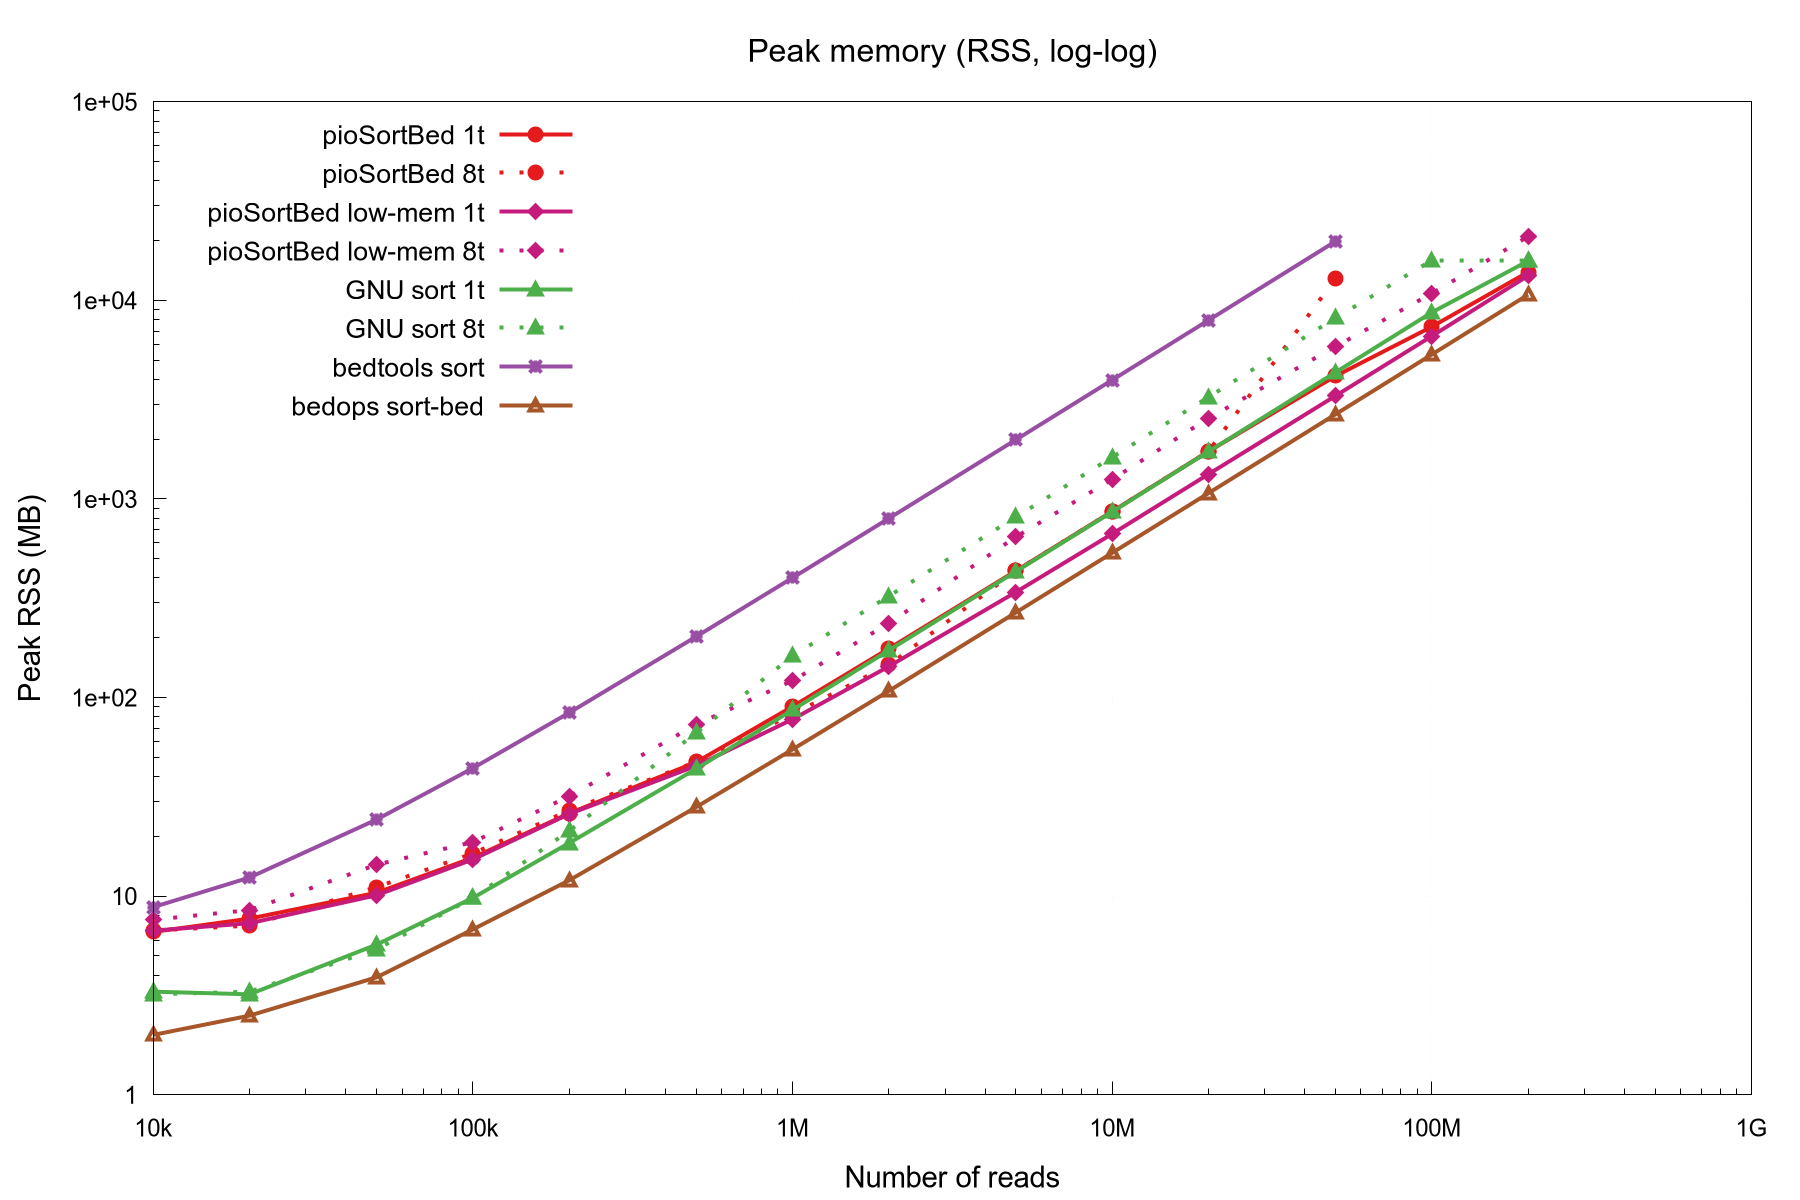
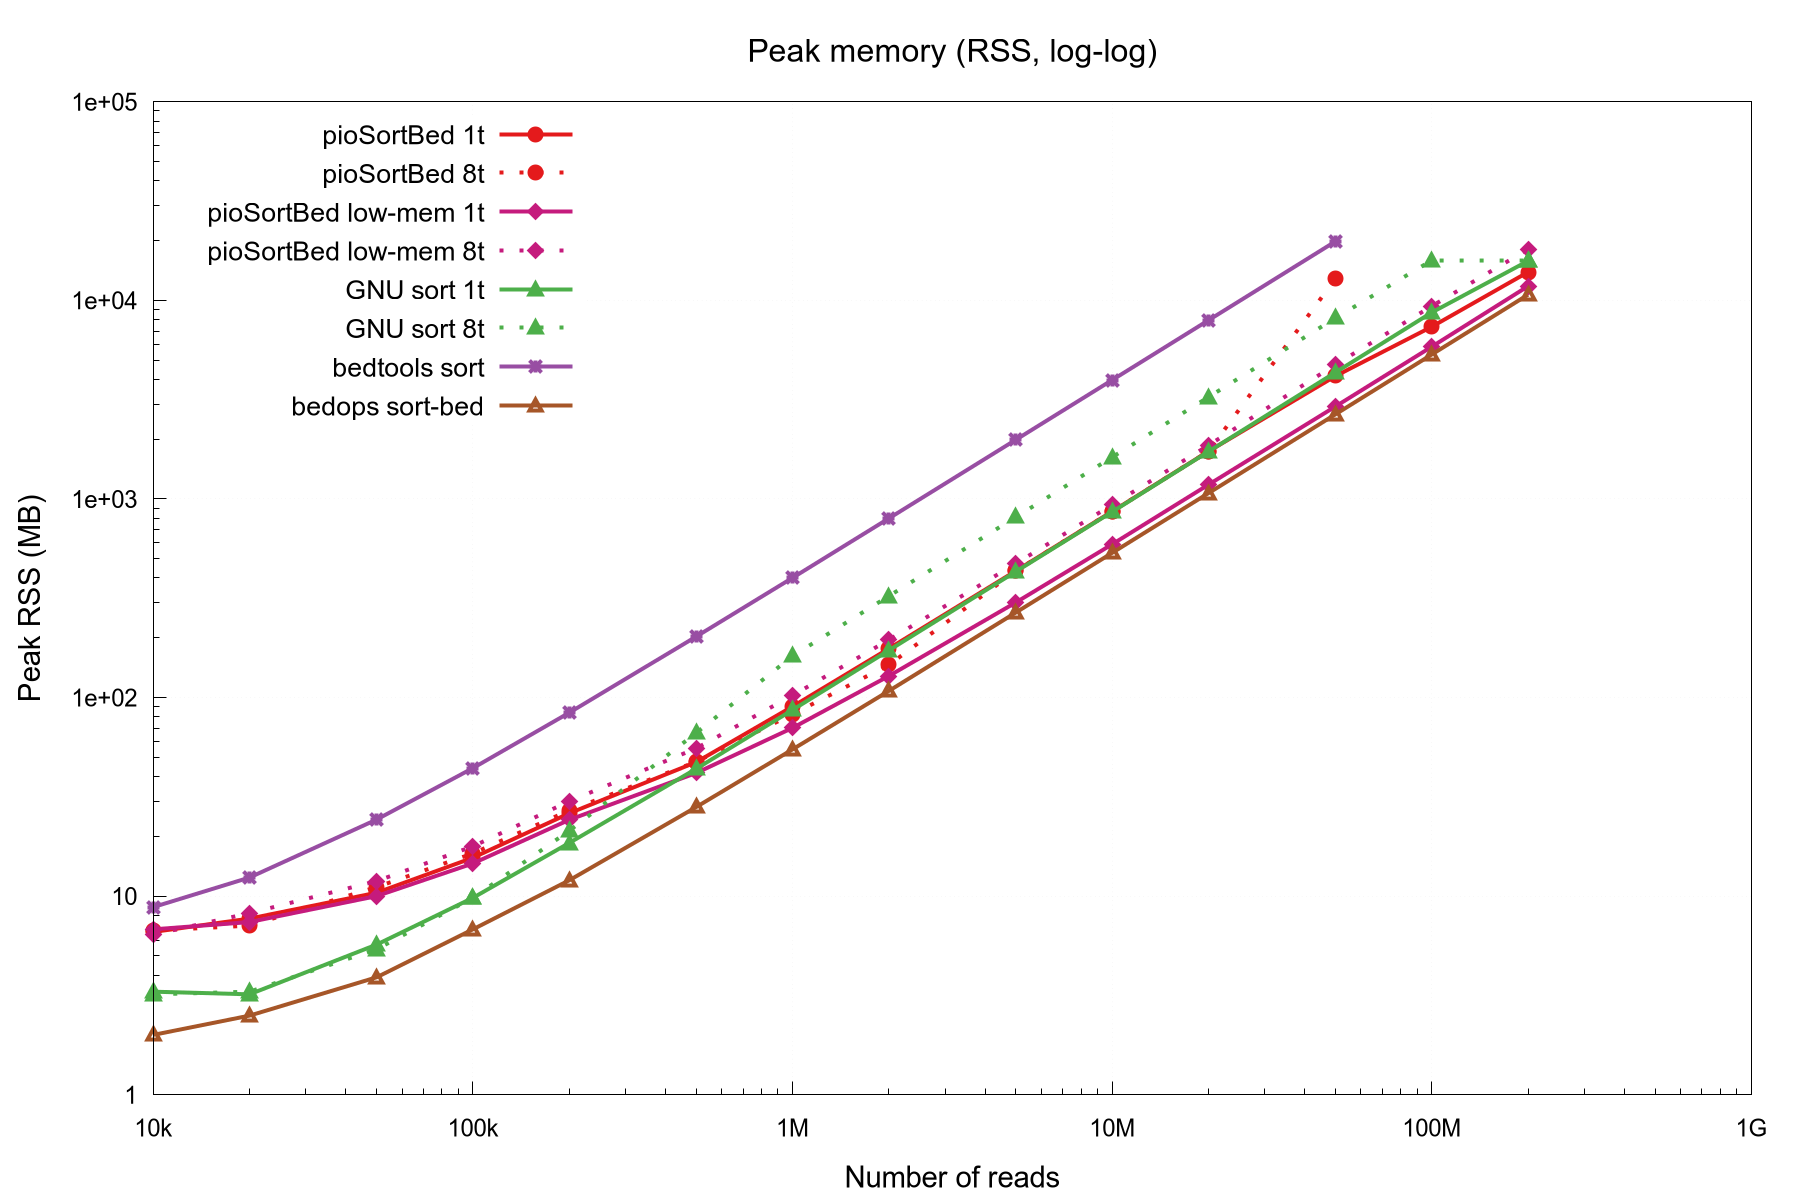
bench: refresh README/CSV/plots with v3.0.2 pio-lm numbers
Re-ran the synthetic sweep on v3.0.2 for --low-mem-ssd at -t 1 and -t 8
only (other tools unchanged from prior measurements). Headline gains
since v3.0.0 from the lowMemNode shrink (24 -> 16 B) and the chunked
emit:

  pio-lm -t 8 @ 50M:  5.88 s / 5.86 GB -> 4.30 s / 4.64 GB  (-27% / -21%)
  pio-lm -t 8 @ 100M: 10.16 s / 10.84 GB -> 7.64 s / 9.14 GB  (-25% / -16%)
  pio-lm -t 8 @ 200M: 35.16 s / 20.98 GB -> 23.56 s / 17.66 GB (-33% / -16%)
  pio-lm -t 1 @ 200M: 68.99 s / 13.32 GB -> 55.30 s / 11.51 GB (-20% / -14%)

vs other tools at 200M, pio-lm -t 8 is now 4.5x faster than GNU sort 8t
(was 3.0x), 6.6x faster than bedops (was 4.4x), 13.9x faster than GNU
sort 1t (was 9.3x).

The "fastest configuration at every size from X upwards" threshold
moves from 1M (v3.0.0) down to 500k (v3.0.2). The "low-mem 1t beats
classic 1t" crossover moves from 50M down to 5M.

Snapshotted v3.0.2_20e32fa1 to benchmark/history/.

diff --git a/README.md b/README.md
@@ -123,19 +123,19 @@ Same colour per tool; thread count distinguished by line style (`-t 1` solid, `-
 | Reads | pio 1t ● | pio 8t ● | pio low-mem 1t ◆ | pio low-mem 8t ◆ | sort 1t ▲  | sort 8t ▲  | bedtools ✚ | bedops ✦   |
 |------:|---------:|---------:|-----------------:|-----------------:|-----------:|-----------:|-----------:|-----------:|
 | 10k   | 0 ms     | 0 ms      | 0 ms             | 0 ms             | 10 ms      | 0 ms       | 10 ms      | 0 ms       |
-| 20k   | 0 ms     | 0 ms      | 10 ms            | 10 ms            | 10 ms      | 10 ms      | 20 ms      | 10 ms      |
-| 50k   | 10 ms    | 10 ms     | 20 ms            | 10 ms            | 30 ms      | 30 ms      | 40 ms      | 30 ms      |
-| 100k  | 10 ms    | 10 ms     | 30 ms            | 20 ms            | 70 ms      | 70 ms      | 90 ms      | 50 ms      |
+| 20k   | 0 ms     | 0 ms      | 10 ms            | 0 ms             | 10 ms      | 10 ms      | 20 ms      | 10 ms      |
+| 50k   | 10 ms    | 10 ms     | 10 ms            | 10 ms            | 30 ms      | 30 ms      | 40 ms      | 30 ms      |
+| 100k  | 10 ms    | 10 ms     | 40 ms            | 20 ms            | 70 ms      | 70 ms      | 90 ms      | 50 ms      |
 | 200k  | 30 ms    | 20 ms     | 60 ms            | 30 ms            | 150 ms     | 90 ms      | 170 ms     | 110 ms     |
-| 500k  | 100 ms   | 70 ms     | 110 ms           | 70 ms            | 410 ms     | 160 ms     | 450 ms     | 290 ms     |
-| 1M    | 210 ms   | 170 ms    | 230 ms           | **150 ms**       | 880 ms     | 320 ms     | 920 ms     | 590 ms     |
-| 2M    | 440 ms   | 350 ms    | 550 ms           | **280 ms**       | 1870 ms    | 630 ms     | 1930 ms    | 1360 ms    |
-| 5M    | 1120 ms  | 880 ms    | 1670 ms          | **660 ms**       | 5170 ms    | 1670 ms    | 4680 ms    | 3310 ms    |
-| 10M   | 2250 ms  | 1780 ms   | 3190 ms          | **1330 ms**      | 11.29 s    | 3450 ms    | 9610 ms    | 6540 ms    |
-| 20M   | 4620 ms  | 3640 ms   | 6390 ms          | **2500 ms**      | 24.48 s    | 7120 ms    | 19.93 s    | 14.26 s    |
-| 50M   | 19.74 s  | 6150 ms   | 16.34 s          | **5880 ms**      | 1min07.2s  | 19.85 s    | 53.10 s    | 34.42 s    |
-| 100M  | 35.66 s  | —         | 32.25 s          | **10.16 s**      | 2min24.0s  | 51.21 s    | —          | 1min07.7s  |
-| 200M  | 1min08.4s | —        | 1min09.0s        | **35.16 s**      | 5min28.5s  | 1min45.5s  | —          | 2min34.6s  |
+| 500k  | 100 ms   | 70 ms     | 150 ms           | **60 ms**        | 410 ms     | 160 ms     | 450 ms     | 290 ms     |
+| 1M    | 210 ms   | 170 ms    | 210 ms           | **150 ms**       | 880 ms     | 320 ms     | 920 ms     | 590 ms     |
+| 2M    | 440 ms   | 350 ms    | 410 ms           | **230 ms**       | 1870 ms    | 630 ms     | 1930 ms    | 1360 ms    |
+| 5M    | 1120 ms  | 880 ms    | 1520 ms          | **490 ms**       | 5170 ms    | 1670 ms    | 4680 ms    | 3310 ms    |
+| 10M   | 2250 ms  | 1780 ms   | 2480 ms          | **1060 ms**      | 11.29 s    | 3450 ms    | 9610 ms    | 6540 ms    |
+| 20M   | 4620 ms  | 3640 ms   | 5170 ms          | **1940 ms**      | 24.48 s    | 7120 ms    | 19.93 s    | 14.26 s    |
+| 50M   | 19.74 s  | 6150 ms   | 13.40 s          | **4.30 s**       | 1min07.2s  | 19.85 s    | 53.10 s    | 34.42 s    |
+| 100M  | 35.66 s  | —         | 25.67 s          | **7.64 s**       | 2min24.0s  | 51.21 s    | —          | 1min07.7s  |
+| 200M  | 1min08.4s | —        | 55.30 s          | **23.56 s**      | 5min28.5s  | 1min45.5s  | —          | 2min34.6s  |
 
 > Sub-50 ms timings (10k–50k) bottom out at GNU `time`'s 10 ms resolution; raw 0 ms readings just mean the tool finished faster than the timer can resolve.
 >
@@ -143,15 +143,14 @@ Same colour per tool; thread count distinguished by line style (`-t 1` solid, `-
 
 **Key observations:**
 - **`pioSortBed --low-mem-ssd -t 8` is the fastest configuration at every size from
-  1M upwards.** Despite the name, "low-mem" is now also "fast": both passes
-  are parallelised, and the per-line index uses a flat 24-byte node table
-  instead of a chromosome-length scratch slab. At 200M reads (8.6 GB BED file),
-  it's **35.2 s — 3.0× faster than GNU sort 8t, 4.4× over bedops, 9.3× over
-  GNU sort 1t**.
-- **`pioSortBed --low-mem-ssd -t 1` beats `pioSortBed -t 1` from 50M upwards**
-  (50M: 16.3 s vs 19.7 s) and uses ~20% less memory (3.3 GB vs 4.1 GB). At
-  smaller sizes the two-pass overhead makes the regular path faster, but the
-  low-mem path scales better.
+  500k upwards.** Both passes are parallelised; the per-line index is a 16-byte
+  flat node table; pass-2 output is written through a pre-sized chunked buffer
+  with no realloc churn. At 200M reads (8.6 GB BED file), it's **23.6 s —
+  4.5× faster than GNU sort 8t, 6.6× over bedops, 13.9× over GNU sort 1t**.
+- **`pioSortBed --low-mem-ssd -t 1` beats `pioSortBed -t 1` from 5M upwards**
+  (50M: 13.4 s vs 19.7 s — 1.5× faster) and uses ~30% less memory (50M: 2.9 GB
+  vs 4.1 GB). At small sizes the two-pass overhead makes the regular path
+  marginally faster, but the low-mem path scales much better.
 - **`pioSortBed 1t`** (with the LSD radix sort) beats GNU sort 1t by 3–5× across
   the whole range and stays competitive with GNU sort 8t up through 2M.
 - **`bedops sort-bed`** remains the closest single-threaded competitor and uses
@@ -168,40 +167,41 @@ Same colour per tool; thread count distinguished by line style (`-t 1` solid, `-
 
 | Reads | pio 1t ●  | pio 8t ●    | pio low-mem 1t ◆ | pio low-mem 8t ◆ | sort 1t ▲ | sort 8t ▲ | bedtools ✚ | bedops ✦   |
 |------:|----------:|------------:|-----------------:|-----------------:|----------:|----------:|-----------:|-----------:|
-| 10k   | 6.6 MB    | 6.7 MB      | 6.7 MB           | 7.6 MB           | 3.3 MB    | 3.2 MB    | 8.8 MB     | 2.0 MB     |
-| 20k   | 7.7 MB    | 7.1 MB      | 7.3 MB           | 8.5 MB           | 3.2 MB    | 3.3 MB    | 12.4 MB    | 2.5 MB     |
-| 50k   | 10.4 MB   | 11.1 MB     | 10.1 MB          | 14.4 MB          | 5.7 MB    | 5.4 MB    | 24.3 MB    | 3.9 MB     |
-| 100k  | 15.6 MB   | 16.4 MB     | 15.3 MB          | 18.7 MB          | 9.8 MB    | 9.8 MB    | 44.1 MB    | 6.8 MB     |
-| 200k  | 26.1 MB   | 27.0 MB     | 25.9 MB          | 31.8 MB          | 18.5 MB   | 21.3 MB   | 83.8 MB    | 12.0 MB    |
-| 500k  | 47.3 MB   | 47.5 MB     | 45.3 MB          | 73.2 MB          | 43.8 MB   | 66.4 MB   | 202.9 MB   | 28.1 MB    |
-| 1M    | 90.1 MB   | 82.4 MB     | 77.7 MB          | 121.5 MB         | 86.6 MB   | 161.9 MB  | 400.8 MB   | 54.8 MB    |
-| 2M    | 176.3 MB  | 145.8 MB    | 143.4 MB         | 236.3 MB         | 172.7 MB  | 324.1 MB  | 797.8 MB   | 107.9 MB   |
-| 5M    | 434.6 MB  | 434.4 MB    | 339.7 MB         | 644.5 MB         | 431.2 MB  | 811.3 MB  | 1.9 GB     | 268.2 MB   |
-| 10M   | 865.1 MB  | 865.1 MB    | 667.3 MB         | 1.2 GB           | 861.4 MB  | 1.6 GB    | 3.9 GB     | 535.3 MB   |
-| 20M   | 1.7 GB    | 1.7 GB      | 1.3 GB           | 2.5 GB           | 1.7 GB    | 3.2 GB    | 7.8 GB     | 1.0 GB     |
-| 50M   | 4.1 GB    | **12.6 GB** | **3.2 GB**       | 5.7 GB           | 4.2 GB    | 8.0 GB    | 19.4 GB    | 2.6 GB     |
-| 100M  | 7.2 GB    | —           | **6.5 GB**       | 10.6 GB          | 8.5 GB    | 15.4 GB   | —          | 5.2 GB     |
-| 200M  | 13.6 GB   | —           | **13.0 GB**      | 20.5 GB          | 15.4 GB   | 15.4 GB   | —          | 10.4 GB    |
+| 10k   | 6.6 MB    | 6.7 MB      | 6.8 MB           | 6.4 MB           | 3.3 MB    | 3.2 MB    | 8.8 MB     | 2.0 MB     |
+| 20k   | 7.7 MB    | 7.1 MB      | 7.4 MB           | 8.2 MB           | 3.2 MB    | 3.3 MB    | 12.4 MB    | 2.5 MB     |
+| 50k   | 10.4 MB   | 11.1 MB     | 10.0 MB          | 11.9 MB          | 5.7 MB    | 5.4 MB    | 24.3 MB    | 3.9 MB     |
+| 100k  | 15.6 MB   | 16.4 MB     | 14.6 MB          | 17.8 MB          | 9.8 MB    | 9.8 MB    | 44.1 MB    | 6.8 MB     |
+| 200k  | 26.1 MB   | 27.0 MB     | 24.2 MB          | 30.0 MB          | 18.5 MB   | 21.3 MB   | 83.8 MB    | 12.0 MB    |
+| 500k  | 47.3 MB   | 47.5 MB     | 41.7 MB          | 55.5 MB          | 43.8 MB   | 66.4 MB   | 202.9 MB   | 28.1 MB    |
+| 1M    | 90.1 MB   | 82.4 MB     | 70.3 MB          | 102.4 MB         | 86.6 MB   | 161.9 MB  | 400.8 MB   | 54.8 MB    |
+| 2M    | 176.3 MB  | 145.8 MB    | 128.3 MB         | 195.0 MB         | 172.7 MB  | 324.1 MB  | 797.8 MB   | 107.9 MB   |
+| 5M    | 434.6 MB  | 434.4 MB    | 301.4 MB         | 473.2 MB         | 431.2 MB  | 811.3 MB  | 1.9 GB     | 268.2 MB   |
+| 10M   | 865.1 MB  | 865.1 MB    | 591.3 MB         | 934.7 MB         | 861.4 MB  | 1.6 GB    | 3.9 GB     | 535.3 MB   |
+| 20M   | 1.7 GB    | 1.7 GB      | 1.2 GB           | 1.8 GB           | 1.7 GB    | 3.2 GB    | 7.8 GB     | 1.0 GB     |
+| 50M   | 4.1 GB    | **12.6 GB** | **2.9 GB**       | 4.6 GB           | 4.2 GB    | 8.0 GB    | 19.4 GB    | 2.6 GB     |
+| 100M  | 7.2 GB    | —           | **5.7 GB**       | 9.1 GB           | 8.5 GB    | 15.4 GB   | —          | 5.2 GB     |
+| 200M  | 13.6 GB   | —           | **11.5 GB**      | 17.7 GB          | 15.4 GB   | 15.4 GB   | —          | 10.4 GB    |
 
 > `pio low-mem 8t` at 100M+ uses `--max-mem=4G` to cap concurrent per-chromosome buffers.
 
 **Key observations:**
 - **`pioSortBed --low-mem-ssd -t 8` is the recommended fast path for files.**
-  At 50M+ it beats `pio -t 8` on both wall time and memory (50M: 5.88 s vs
-  6.15 s, 5.7 GB vs 12.6 GB). At 100M and 200M it's the only pioSortBed mode
-  besides single-threaded that fits in 32 GB RAM at all.
+  At 50M it beats `pio -t 8` by 30% on wall time AND uses ~36% less memory
+  (4.30 s / 4.6 GB vs 6.15 s / 12.6 GB). At 100M and 200M it's the only
+  pioSortBed mode besides single-threaded that fits in 32 GB RAM at all.
 - **`pioSortBed --low-mem-ssd -t 1` is the lowest-memory pioSortBed mode** —
-  matches or beats `pio -t 1` on memory at every size from 5M up (50M: 3.2 GB
-  vs 4.1 GB) and at 200M reads is the lowest-RAM pioSortBed mode at 13.0 GB.
+  beats `pio -t 1` on memory at every size from 5M up (50M: 2.9 GB vs 4.1 GB,
+  ~30% less) AND on wall time (50M: 13.4 s vs 19.7 s). At 200M reads it's
+  the lowest-RAM pioSortBed mode at 11.5 GB.
 - **Memory grows ~linearly with input for every tool.** At 200M: pio-lm 8t
-  21 GB, pio-lm 1t 13 GB, GNU sort 15 GB, bedops 10 GB. `bedtools` and
+  17.7 GB, pio-lm 1t 11.5 GB, GNU sort 15 GB, bedops 10 GB. `bedtools` and
   `pio -t 8` would have needed >32 GB and were skipped.
 - **`bedops sort-bed`** uses the least memory throughout — a sensible choice
   on RAM-constrained systems where wall time isn't critical.
 - **`pioSortBed -t 8`** trades RAM for speed via per-thread `chromTable`
   slabs. The `--max-mem=N[GMK]` flag (v2.2.0+) lets you cap the peak in
   exchange for wall time. For large inputs `--low-mem-ssd -t 8` is now
-  strictly better and `pio -t 8` is mainly useful below ~50M.
+  strictly better on both axes and `pio -t 8` is mainly useful below ~50M.
 
 ### Performance Summary
 

diff --git a/CHANGELOG.md b/CHANGELOG.md
@@ -14,12 +14,25 @@ the project uses [semantic versioning](https://semver.org).
   the doubling. Pre-sizing to `chromCount × avgLineBytes × 1.05` eliminates
   the doublings on the parallel path.
   - Single-thread (`-t 1`): keeps a 64 KB scratch reused across chromosomes,
-    `fwrite_unlocked`'d to stdout when full. Peak RAM unchanged; ~3% faster.
+    `fwrite_unlocked`'d to stdout when full.
   - Parallel (`-t > 1`): pre-sized per-chromosome buffer, queued through the
-    existing producer-consumer barrier. **20M reads measured: 2.32 s / 2.31 GB
-    → 1.84 s / 1.85 GB — 21% faster, 20% less RAM.**
+    existing producer-consumer barrier.
 - `processChrom` now takes a `ChromBuf&` instead of a `FILE*`; collapse mode
   uses `vsnprintf` into a 512-B stack buffer + `memcpy` instead of `fprintf`.
+
+### Full-sweep refresh (v3.0.0 -> v3.0.2 cumulative gains for `--low-mem-ssd`)
+
+After the 16-byte node table (v3.0.1) and the chunked emit (v3.0.2):
+
+| Reads | `pio-lm -t 8` v3.0.0 | v3.0.2 | wall delta | RSS delta |
+|------:|---------------------:|-------:|-----------:|----------:|
+|   20M |    2.50 s / 2.55 GB | **1.94 s / 1.86 GB** |   -22% | -27% |
+|   50M |    5.88 s / 5.86 GB | **4.30 s / 4.64 GB** |   -27% | -21% |
+|  100M |  10.16 s / 10.84 GB | **7.64 s / 9.14 GB** |   -25% | -16% |
+|  200M |  35.16 s / 20.98 GB | **23.56 s / 17.66 GB** | -33% | -16% |
+
+At 200M reads `pio-lm -t 8` is now **4.5× faster than GNU sort 8t**, **6.6×
+faster than bedops**, and **13.9× faster than GNU sort 1t**.
 
 ## [3.0.1] — 2026-04-30
 
